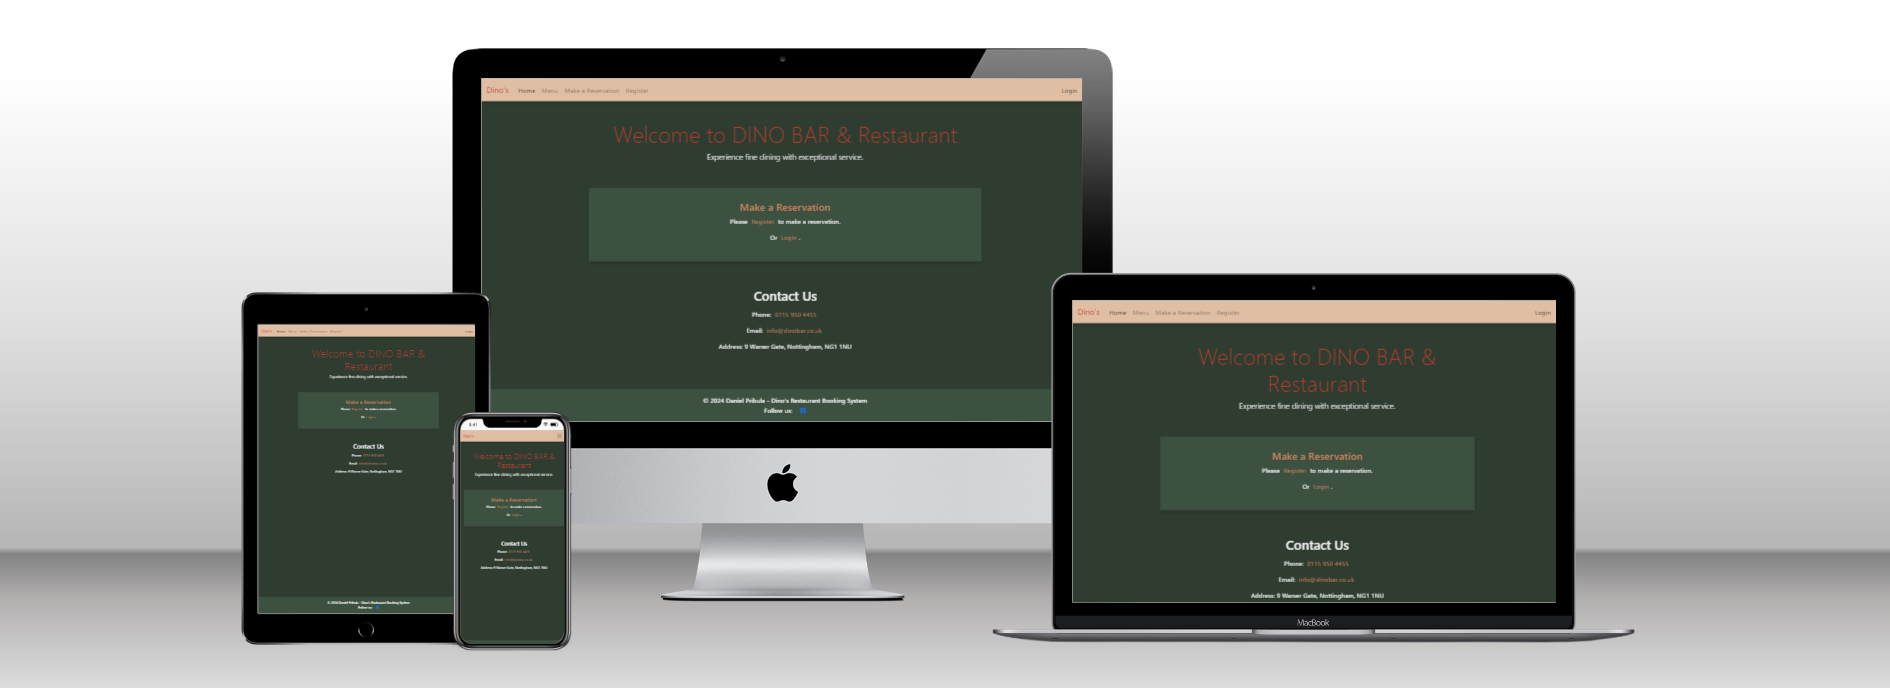
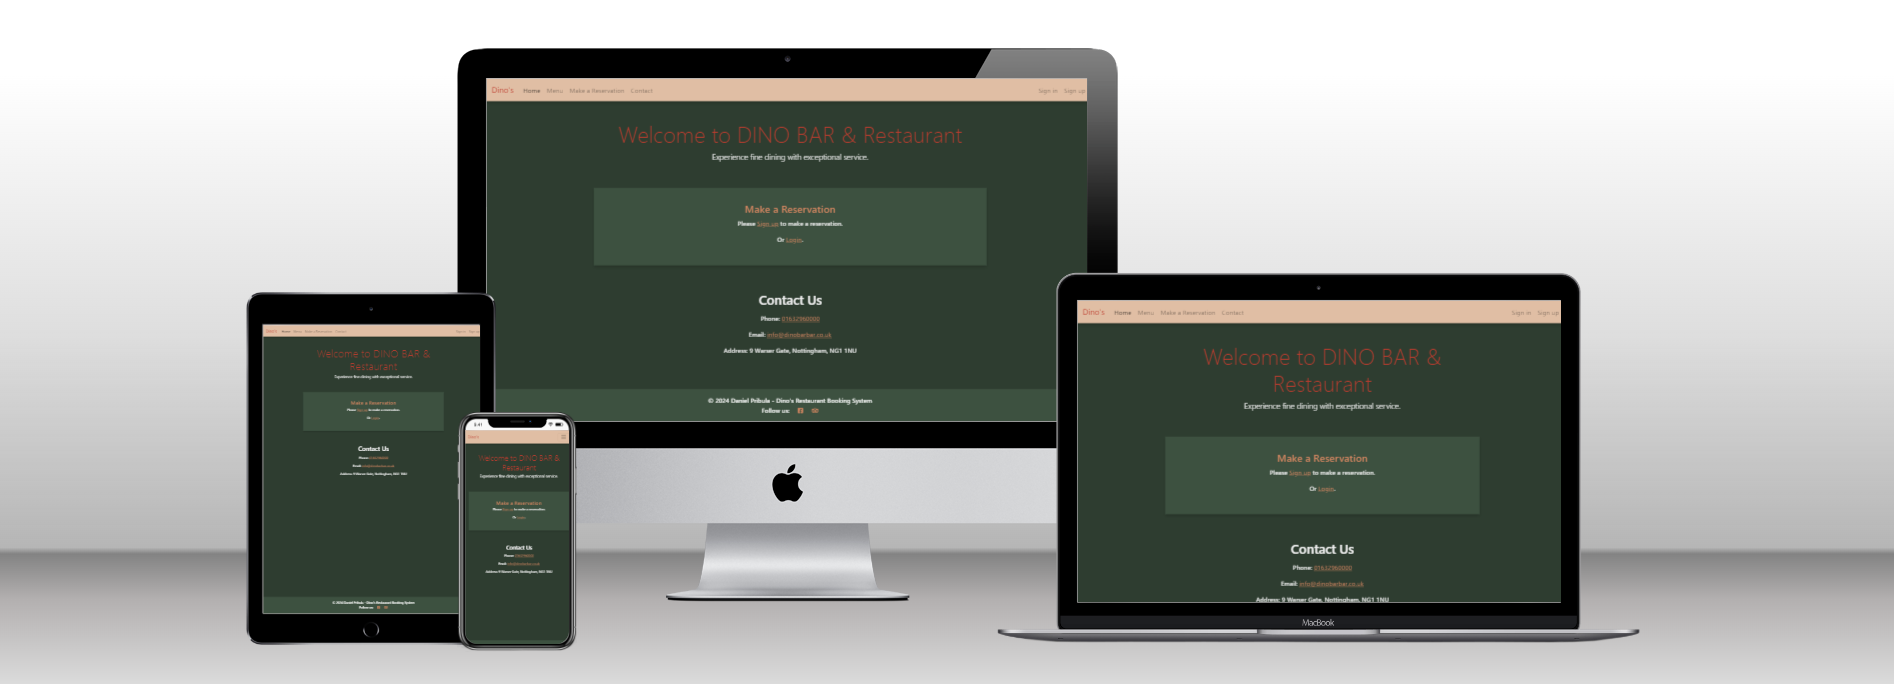
README update - Structure - images, Bugs & Fixes..., other tweaks

diff --git a/booking/templates/booking/reservation_make_edit.html b/booking/templates/booking/reservation_make_edit.html
@@ -57,7 +57,7 @@
                     </div>
                     {% endif %}
                 </div>
-
+                <h3>Preferences</h3>
                 <!-- Other preference fields -->
                 <div class="form-group">
                     {{ form.is_quiet.label_tag }}
@@ -98,7 +98,7 @@
                     </div>
                     {% endif %}
                 </div>
-
+                <p><strong>Please Note:</strong> While we will do our best to accommodate your preferences, we cannot guarantee them.</p>
                 <div class="text-center mt-3">
                     <button type="submit" class="btn btn-primary">Submit</button>
                     <a href="{% url 'user_reservations' %}" class="btn btn-cancel">Cancel Changes</a>

diff --git a/booking/utils/reservation_utils.py b/booking/utils/reservation_utils.py
@@ -21,17 +21,19 @@ def handle_reservation_logic(form, user, original_reservation):
     reservation_end = reservation_date + timedelta(hours=2)
 
     preferences = {
-        'is_quiet': form.cleaned_data.get('is_quiet') == 'yes',
-        'is_outside': form.cleaned_data.get('is_outside') == 'yes',
-        'has_bench_seating': form.cleaned_data.get('has_bench_seating') == 'yes',
-        'has_disabled_access': form.cleaned_data.get('has_disabled_access') == 'yes'
+        'is_quiet': form.cleaned_data.get('is_quiet'),
+        'is_outside': form.cleaned_data.get('is_outside'),
+        'has_bench_seating': form.cleaned_data.get('has_bench_seating'),
+        'has_disabled_access': form.cleaned_data.get('has_disabled_access')
     }
 
     # Start with all tables and filter based on preferences
     tables = Table.objects.all()
     for key, value in preferences.items():
-        if value:
+        if value == 'yes':
             tables = tables.filter(**{key: True})
+        elif value == 'no':
+            tables = tables.filter(**{key: False})
 
     # #
     # # ALLOW overlapping by using an empty queryset
@@ -53,7 +55,7 @@ def handle_reservation_logic(form, user, original_reservation):
     # #
 
     if overlapping_reservations.exists():
-        form.add_error(None, 'You already have an overlapping reservation for this time.'
+        form.add_error(None, 'You already have an overlapping reservation for this time. '
                              'Please, for larger groups, contact the restaurant staff directly.')
         return None, None  # Return early to display the form error
 

diff --git a/booking/views.py b/booking/views.py
@@ -69,11 +69,11 @@ class UserReservationsView(generic.ListView):
 
     def get_queryset(self):
         now = timezone.now()
-        # Filter for future reservations and exclude those with status 2 or 3
+        # Filter for future reservations, exclude those with status 2 or 3, and order by reservation date and time
         return Reservation.objects.filter(
             user=self.request.user,
             reservation_date__gt=now
-        ).exclude(status__in=[2, 3])
+        ).exclude(status__in=[2, 3]).order_by('reservation_date')
 
 
 """

diff --git a/codestar/settings.py b/codestar/settings.py
@@ -27,7 +27,7 @@ TEMPLATES_DIR = os.path.join(BASE_DIR, 'templates')
 SECRET_KEY = os.environ.get("SECRET_KEY")
 
 # SECURITY WARNING: don't run with debug turned on in production!
-DEBUG = True
+DEBUG = False
 
 ALLOWED_HOSTS = ['8000-houndhunger-djangoresta-bv2xsltcc4y.ws.codeinstitute-ide.net',
                 '.herokuapp.com']

diff --git a/README.md b/README.md
@@ -2,7 +2,7 @@
 
 ## Purpose of the Project
 
-Restaurant Booking System is a Django web application designed for managing restaurant reservations. The application provides features for both customers and staff to handle reservations, manage tables, and ensure a smooth dining experience.
+Restaurant Booking System is a Django web application created for Dino Bar and Restaurant, designed for managing restaurant reservations. The application provides features for both customers and staff to handle reservations, manage tables, and ensure a smooth dining experience.
 
 ![Restaurant booknig Mockup](docs/images/mockup-image-restaurant.jpg)
 
@@ -29,7 +29,7 @@ Restaurant Booking System is a Django web application designed for managing rest
 - **Font Awesome**: For icons used in the navigation bar and footer.
 - **TODO - MAYBE** - **jQuery**: For front-end interaction and user interface elements.
 
-## TODO - UPDATE IMAGE - Supported screens and browsers
+## OK - UPDATE IMAGE - Supported screens and browsers
 The website was developed and tested on Google Chrome. It's working correctly for Small screen sizes, like Galaxy Fold, as well as for large screens.
 ![Responsive design](docs/images/responsive-design.png)
 *Image was generated using this [techsini.com website](https://techsini.com/multi-mockup/index.php)
@@ -67,7 +67,7 @@ To deploy the project, follow these steps:
 2. Push your code to the Heroku remote repository: ```"git push"```
 3. Deploy the app on Heroku either by manually deploying through the Heroku dashboard or by enabling automatic deployment for the main branch.
 
-## Features
+## TODO - Features
 ### Existing Features
 - __User Features__
   - **Make Reservations**: Users can book tables for their desired time and date.
@@ -83,13 +83,17 @@ To deploy the project, follow these steps:
 ### Future Enhancements
 - __User Features__
   - **Update User details**: User can update own details like Name, password and email address.
-  - **Avabiltiy**: On selecting reservation date and time, be inforwed about avaialabe tables for the date and time (avaialabe 0-49%, bussy 50-79%, almost full %80-%99, full 100%). 
+  - **Avabiltiy**: On selecting reservation date and time, be informed about thorugh the day avability (avaialabe 0-49%, bussy 50-79%, almost full %80-%99, full 100%). 
   - **Advanced avabiltiy**: - A feature to display a calendar view of table availability, allowing users to easily see and book available slots for different dates and times.
+  - **Get Notfied**: - Receive notifications about upcoming reservations on the morning of the reservation day and a preferred time in advance.
+  - **Automate Preferences**: Automatically reserve suitable tables based on guest preferences. If preferences cannot be fully met, guests will be notified.
 
 - __Staff Features__
   - **Manage Reservations**: View and manage all reservations made by users by non admin - user custom interface.
   - **View Table Availability**: Check table availability for any given time slot by users by non admin - user custom interface.
   - **Manage Tables**: Add, update, or remove tables and their details by non admin - user custom interface.
+  - **Restaurant Table Plan Layout**: Manage the restaurant's table reservations for efficient reservation handling and table assignments.
+  - **Custom reservation times**: Apply custom reservation times based on party size and bumper/servixwe time.
 
 
 ## OK - Authentication
@@ -104,36 +108,36 @@ To deploy the project, follow these steps:
 ## Structure
 
 - __Navigation Bar__
-  - The fully responsive navigation bar is present on all pages, providing links to Home, Menu, Make a Reservation, My Reservations, Contact, Logged in as user, 
-Profile and Logout. It ensures easy navigation across devices and maintains a consistent user experience.
+  - The fully responsive navigation bar is present on all pages, providing links to Home, Menu. For signed in user navigation bar show lins to Make a Reservation, My Reservations, Contact, Profile and Sign out. For not signed in user navigation bar show lins to Sign in, Sign up and Make Reservation which leads to Sign in.
+Profile and Log out. It ensures easy navigation across devices and maintains a consistent user experience.
 
-  ![Nav Bar](https://example.com/navigation-bar-image.png)
+  ![Nav Bar](docs/images/navigation-bar-image.png)
 
 - __Reservation Management__
   - Customers can make, view, update, and cancel reservations through a user-friendly interface. This feature helps users to manage their dining plans effectively and receive confirmation emails for their bookings.
 
-  ![Reservation Management](https://example.com/reservation-management-image.png)
+  ![Reservation Management](docs/images/reservation-management-image.png)
 
 - __Admin Dashboard__
   - The staff dashboard allows users to view and manage all reservations, including adding or updating table information. It provides an overview of current bookings and table availability to assist staff in daily operations.
 
-  ![Admin Dashboard](https://example.com/admin-dashboard-image.png)
+  ![Admin Dashboard](docs/images/admin-dashboard-image.png)
 
 - __Custom Signup and Login__
   - Users can sign up with email verification to ensure valid accounts. The custom signup form is designed to collect essential user details and facilitate secure login and registration processes.
 
-  ![Custom Signup](https://example.com/custom-signup-image.png)
+  ![Custom Signup](docs/images/custom-signup-image.png)
 
 - __Email Notifications__
   - Automated email notifications are sent to users upon reservation creation, update, or cancellation. This feature ensures that users receive timely updates and confirmations about their reservations.
 
-  ![Email Notifications](https://example.com/email-notifications-image.png)
+  ![Email Notifications](docs/images/email-notifications-image.png)
 
 - __Footer__
   - The footer includes links to social media profiles and contact information. It encourages users to stay connected and provides easy access to additional resources.
   - For development purposes, phone numbers and email addresses links use fake or reserved domains to prevent accidental emails or real interactions (e.g., info@example.com).
 
-  ![Footer](https://example.com/footer-image.png)
+  ![Footer](docs/images/footer-image.png)
 
 
 ## REVISIT - Development Process
@@ -165,6 +169,8 @@ The development process for this project involved several stages, each addressin
 
 ## REVISE - User Stories
 - **As a user, I want to be able to register an account**: Users should be able to create an account with email verification to ensure valid email addresses and secure their accounts.
+- **TABLE**
+
 - **As a user, I want to be able to log in and log out securely**: Users should be able to log in with their credentials and log out, with proper redirection after authentication and logout.
 - **As a user, I want to be able to book a table**: Users should be able to select a date, time, and number of guests to reserve a table, and receive a confirmation of their reservation.
 - **As a user, I want to view and manage my reservations**: Users should be able to view their existing reservations, and cancel or modify them as needed.
@@ -205,7 +211,17 @@ The development process for this project involved several stages, each addressin
   - **Problem**: The Flatpickr datepicker appears oversized and doesn't fit well on smaller screens, making the user experience cumbersome.  
   - **Issue**: The cause is likely due to Flatpickr’s default styling, which isn’t fully responsive out of the box.  
   - **Solution**: The Flatpickr calendar is now hidden on smaller screens. Future plans include implementing responsive adjustments or integrating a mobile-friendly datepicker.
-  
+
+ - **Bootstrap Content Off-Center**
+  - **Problem**: Some content of the website is off-center on screens larger than 1200px.
+  - **Issue**: This misalignment can lead to an unprofessional appearance and negatively affect user experience.
+  - **Solution**: Ensure that the correct Bootstrap grid classes are applied. Use container-fluid or adjust margins and padding to center the content properly. Additionally, inspect any custom CSS that may interfere with Bootstrap’s default styling.
+
+  - **Advanced booking - Preferences**
+  - **Problem**: The system doesn't consistently accommodate all guest preferences (e.g., quiet area, outdoor seating, etc.).
+  - **Issue**: Some preferences are ignored or incorrectly applied during table assignment, leading to unsatisfactory guest experiences.
+  - **Solution**: Implement more complex booking logic that ensures preferences are properly respected, along with extensive testing to verify correct behavior.
+
 ### KEEP UPDATING - Unsolved Bugs
 - **Handling simultaneous reservations with the same table**  
   - **Problem**: There's currently no mechanism in place to prevent two users from reserving the same table at the same time.  
@@ -231,10 +247,12 @@ The development process for this project involved several stages, each addressin
   
 
 
-## Testing
+## TODO - Testing
 ### Code validation 
 - **HTML**: No errors were found when passing through the [W3C validator](https://validator.w3.org/nu/?doc=https%3A%2F%2Fyour-site-url.com).
 - **CSS**: No errors were found when passing through the [Jigsaw validator](https://jigsaw.w3.org/css-validator/validator?uri=https%3A%2F%2Fdjango-restaurant-web-and-book-565ecd4fe61b.herokuapp.com%2Fstatic%2Fcss%2Fstyle.css&profile=css3svg&usermedium=all&warning=1&vextwarning=&lang=en).
+- **JavaScript**: Errors or potential problems were identified with JSHint. New JavaScript features (ES6) settings is turned on. Results show no errors. Metrics identified areas for code improvement, but due to time constraints, I couldn't address them fully. Future updates will optimize the code and possibly split it into multiple files.
+- **Pyton**: Code passes flake8 and pylint validaation with 100% sucess validating manage.py and all *.py modules.
 
 ### TODO - Test Cases
 ...
